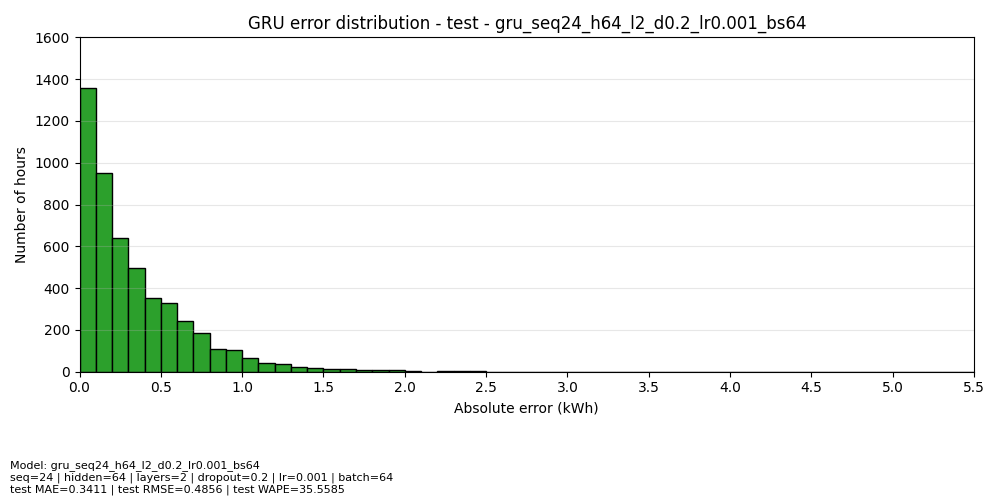
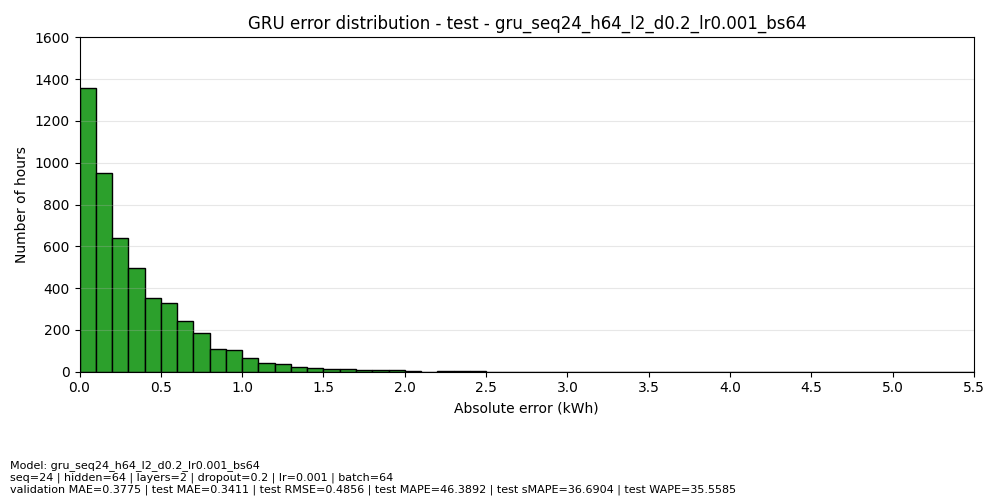
train loss validation loss through epochs graphs added

Changed region(s): [[0.0, 0.96, 0.744, 0.99]]

diff --git a/src/step07_gru_visualization.py b/src/step07_gru_visualization.py
@@ -181,6 +181,18 @@ def load_gru_outputs(model_name):
     return predictions_df, report_df
 
 
+def load_training_history(model_name):
+    """
+    Ucitava istoriju train i validation loss-a za jedan GRU model.
+    """
+    history_path = Path(f"data/logs/gru_logs/{model_name}_training_history.csv")
+
+    if not history_path.exists():
+        return pd.DataFrame()
+
+    return pd.read_csv(history_path)
+
+
 def load_best_gru_model_name():
     """
     Vraca naziv najboljeg GRU modela iz step06 outputa.
@@ -484,6 +496,69 @@ def plot_error_distribution(predictions_df, graphs_dir, axis_config, model_name,
     plt.close(fig)
 
 
+def plot_training_history(history_df, graphs_dir, model_name, details):
+    """
+    Prikazuje promenu train i validation loss-a kroz epohe.
+    """
+    if history_df.empty:
+        return
+
+    best_validation_index = history_df["validation_loss"].astype(float).idxmin()
+    best_validation_row = history_df.loc[best_validation_index]
+    last_epoch = int(history_df["epoch"].iloc[-1])
+    best_epoch = int(best_validation_row["epoch"])
+    best_validation_loss = float(best_validation_row["validation_loss"])
+
+    fig, ax = plt.subplots(figsize=(12, 5))
+
+    ax.plot(
+        history_df["epoch"],
+        history_df["train_loss"],
+        marker="o",
+        linewidth=2,
+        label="Train loss",
+        color="tab:blue",
+    )
+    ax.plot(
+        history_df["epoch"],
+        history_df["validation_loss"],
+        marker="o",
+        linewidth=2,
+        label="Validation loss",
+        color="tab:orange",
+    )
+    ax.axvline(
+        best_epoch,
+        color="tab:green",
+        linestyle="--",
+        linewidth=1.5,
+        label=f"Best validation epoch: {best_epoch}",
+    )
+    ax.axvline(
+        last_epoch,
+        color="tab:red",
+        linestyle=":",
+        linewidth=1.5,
+        label=f"Stopped at epoch: {last_epoch}",
+    )
+
+    ax.set_title(f"GRU training history - {model_name}")
+    ax.set_xlabel("Epoch")
+    ax.set_ylabel("MSE loss on scaled target")
+    ax.set_xticks(history_df["epoch"])
+    ax.legend()
+    ax.grid(True, alpha=0.3)
+    add_graph_details(
+        fig,
+        details,
+        f"Best validation loss={best_validation_loss:.6f} at epoch {best_epoch}",
+    )
+
+    fig.tight_layout(rect=(0, 0.16, 1, 1))
+    fig.savefig(graphs_dir / f"{model_name}_training_history.png")
+    plt.close(fig)
+
+
 def plot_compare_error_distribution(compare_df, graphs_dir, axis_config, model_name, details):
     """
     Prikazuje distribuciju apsolutnih gresaka za baseline i najbolji GRU.
@@ -531,7 +606,7 @@ def plot_compare_error_distribution(compare_df, graphs_dir, axis_config, model_n
 
 def create_gru_graphs():
     """
-    Kreira 4 graficka prikaza za svaki GRU model iz step06.
+    Kreira graficke prikaze za svaki GRU model iz step06.
     """
     graphs_dir = Path("data/graphs/gru_graphs")
     graphs_dir.mkdir(parents=True, exist_ok=True)
@@ -544,6 +619,7 @@ def create_gru_graphs():
 
     for model_name in get_gru_model_names():
         predictions_df, report_df = load_gru_outputs(model_name)
+        history_df = load_training_history(model_name)
         details = get_graph_details(model_name)
         error_axis_config = create_error_axis_config(
             [
@@ -567,6 +643,7 @@ def create_gru_graphs():
             model_name,
             details,
         )
+        plot_training_history(history_df, graphs_dir, model_name, details)
 
 
 def create_baseline_gru_compare_graphs():

diff --git a/docs/documentation.md b/docs/documentation.md
@@ -182,6 +182,12 @@ Rad obuhvata pripremu i čišćenje podataka i njihovu transformaciju u oblik po
     data/graphs/baseline_gru_compare_graphs/
     ```
 
+  - Grafici promene greške kroz epohe za train i validation skup čuvaju se za svaku GRU konfiguraciju u:
+
+    ```text
+    data/graphs/gru_graphs/{model_name}_training_history.png
+    ```
+
 - **Zaključci:**
   - GRU model značajno nadmašuje baseline `lag_24h` model na test skupu.
   - Sekvencijalni pristup je pogodniji za ovaj problem, jer model koristi obrazac iz prethodna 24 sata umesto samo jedne prethodne vrednosti.
